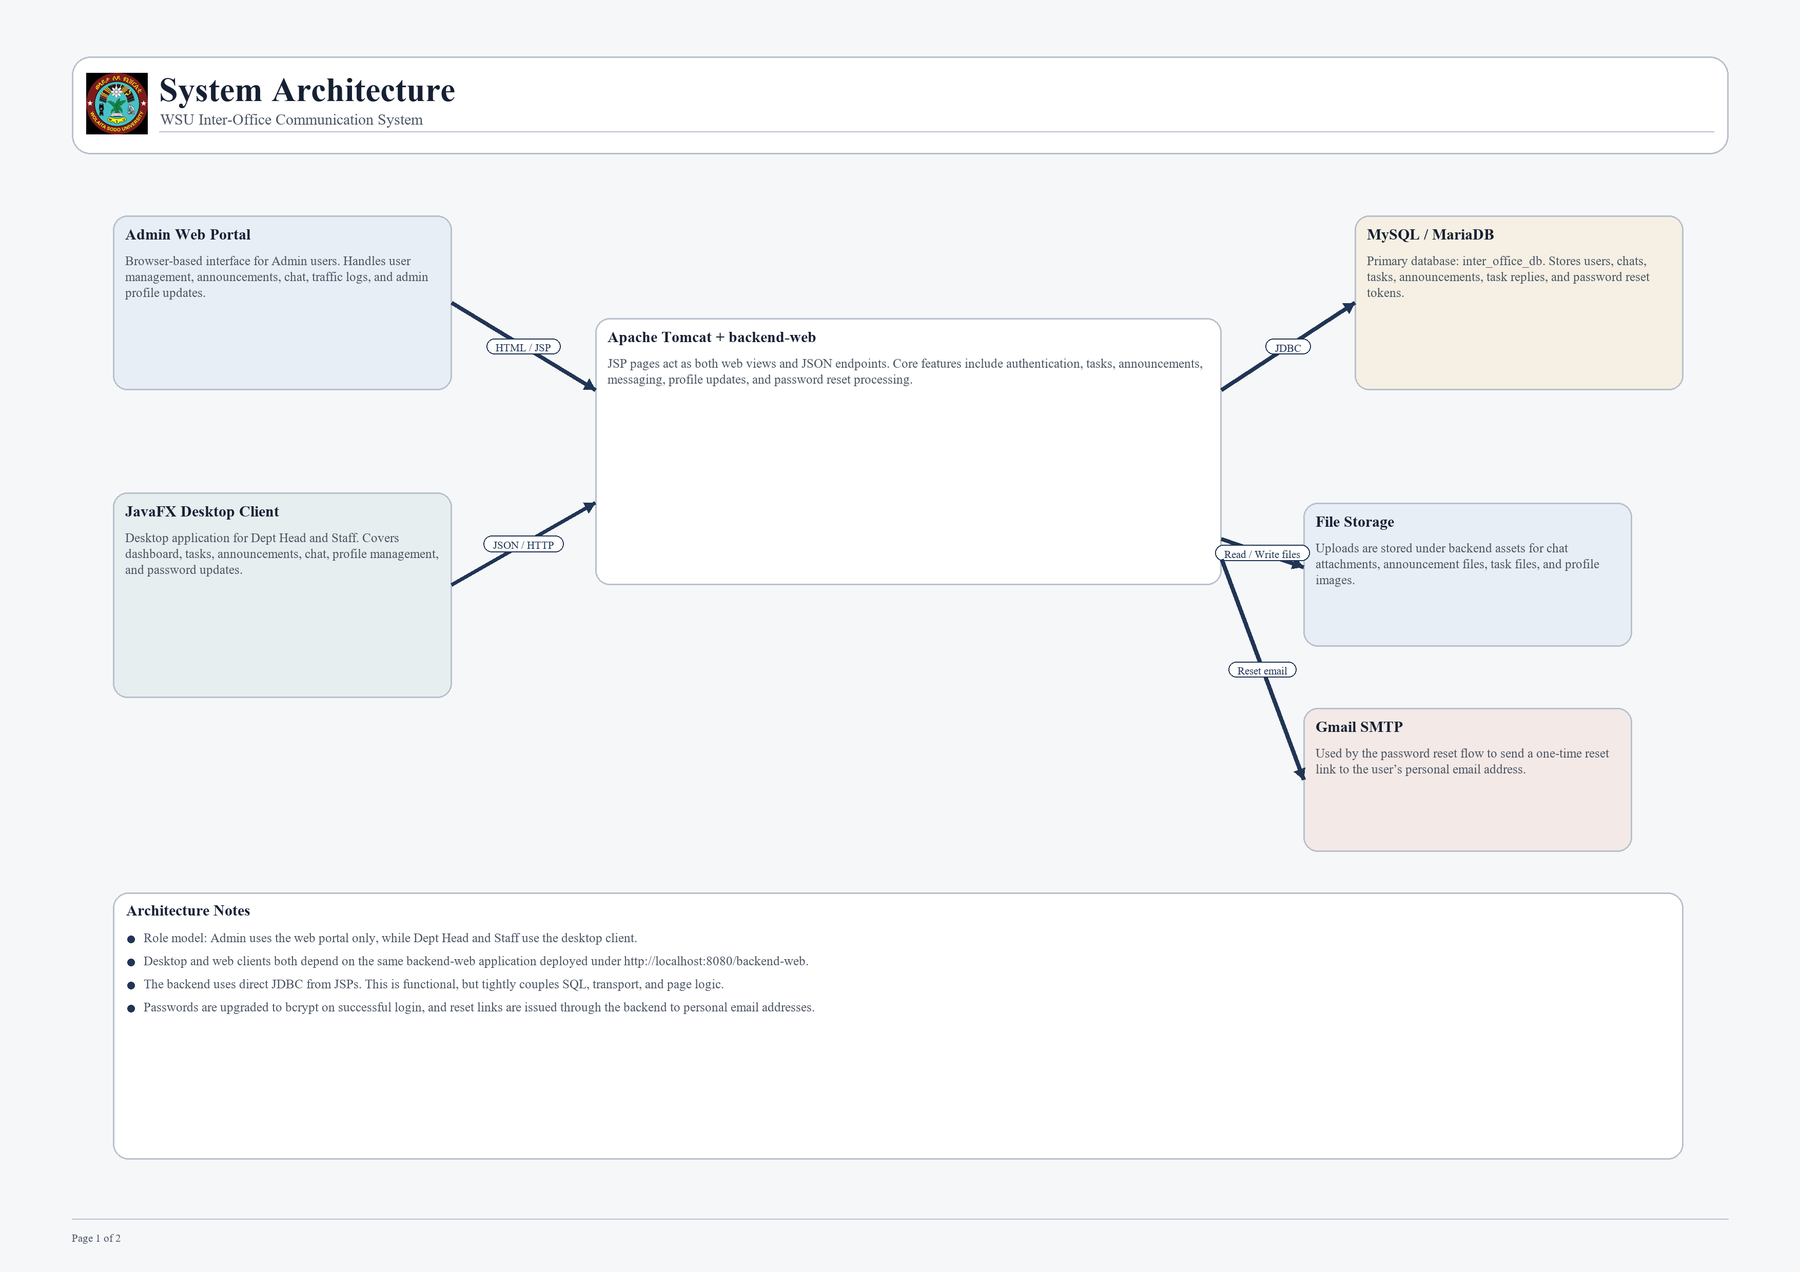
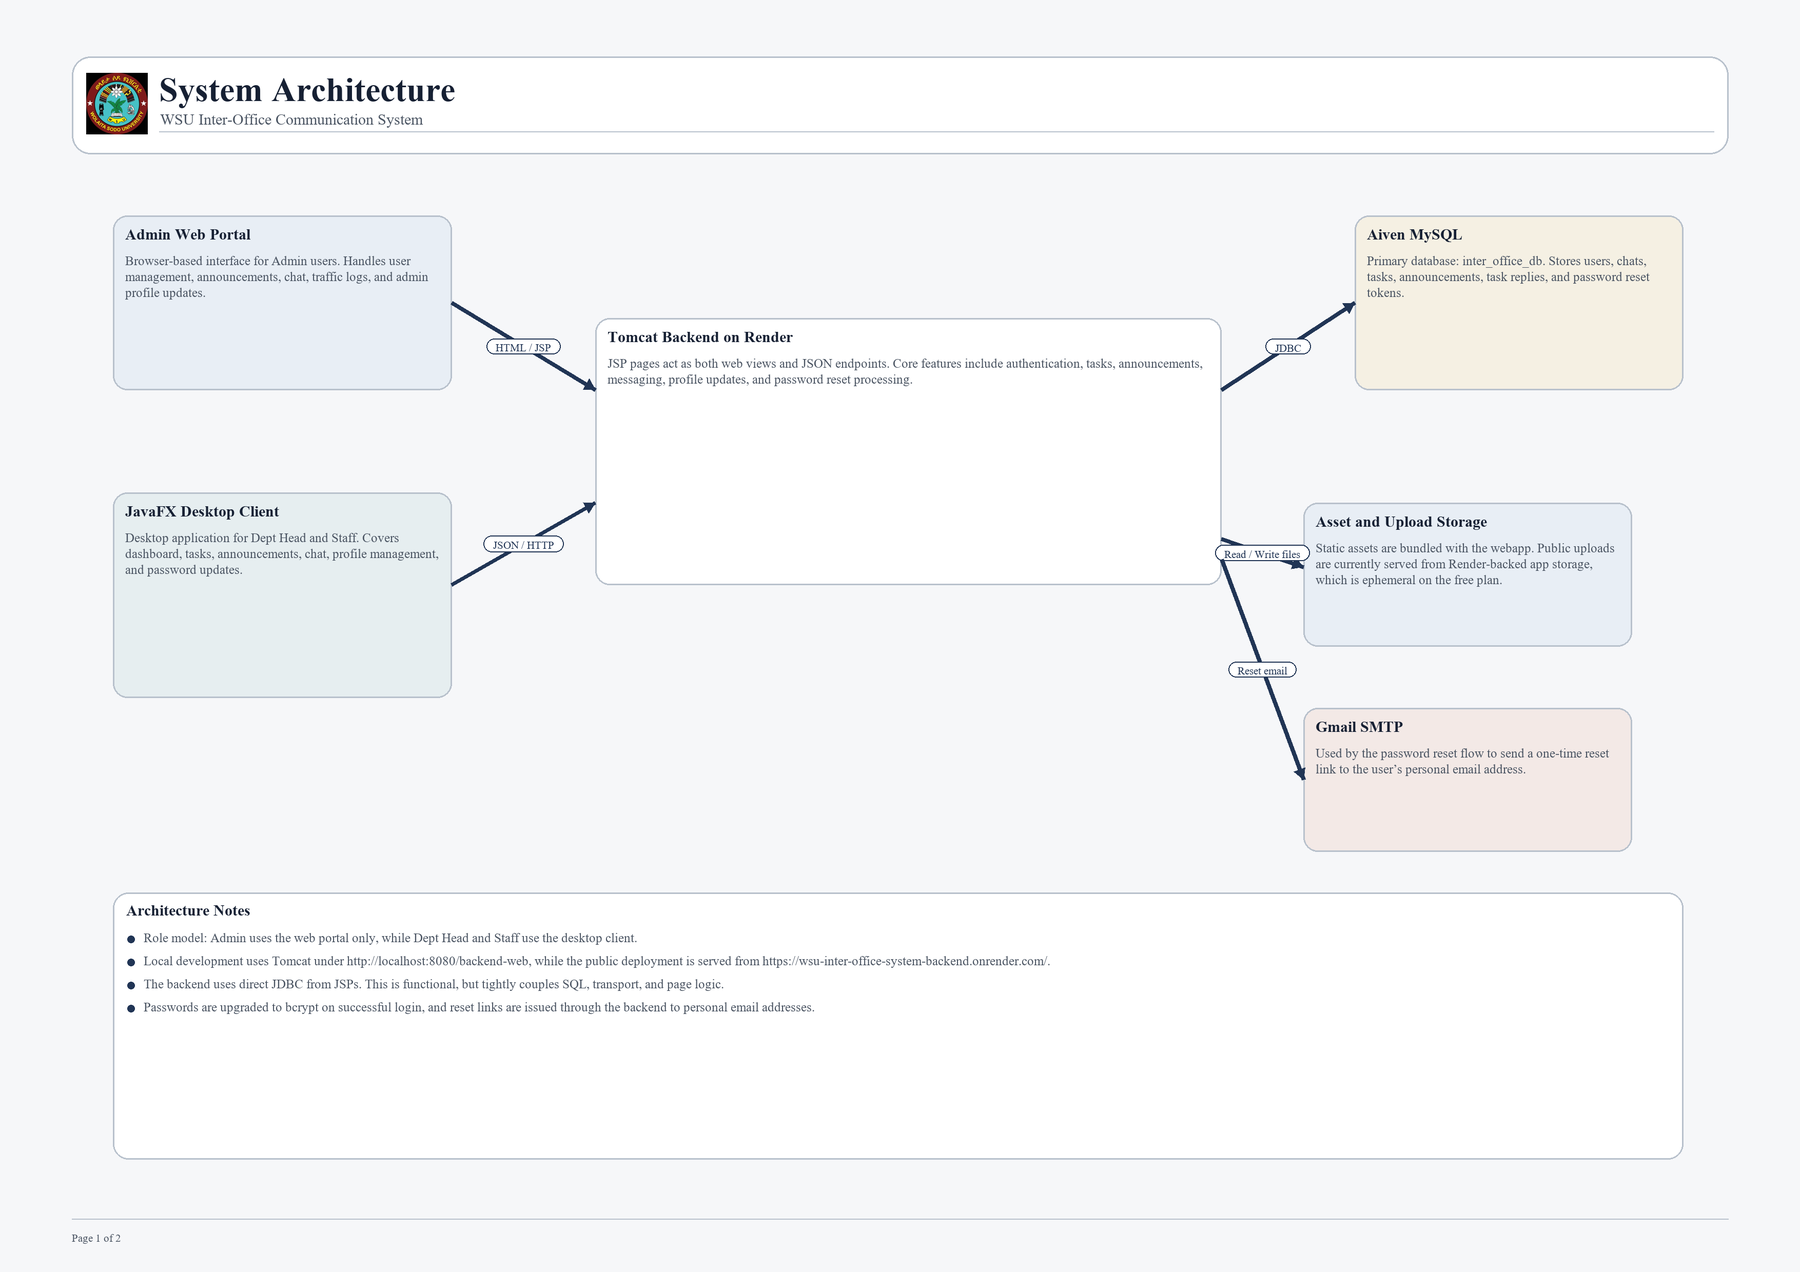
Refresh deployment documentation

diff --git a/docs/generate_diagram_pdfs.py b/docs/generate_diagram_pdfs.py
@@ -224,9 +224,9 @@ def generate_architecture_pdf() -> None:
 
     draw_box_with_text(draw, admin_box, "Admin Web Portal", "Browser-based interface for Admin users. Handles user management, announcements, chat, traffic logs, and admin profile updates.", COLORS["soft_blue"])
     draw_box_with_text(draw, desktop_box, "JavaFX Desktop Client", "Desktop application for Dept Head and Staff. Covers dashboard, tasks, announcements, chat, profile management, and password updates.", COLORS["soft_teal"])
-    draw_box_with_text(draw, backend_box, "Apache Tomcat + backend-web", "JSP pages act as both web views and JSON endpoints. Core features include authentication, tasks, announcements, messaging, profile updates, and password reset processing.", COLORS["panel"])
-    draw_box_with_text(draw, db_box, "MySQL / MariaDB", "Primary database: inter_office_db. Stores users, chats, tasks, announcements, task replies, and password reset tokens.", COLORS["soft_gold"])
-    draw_box_with_text(draw, files_box, "File Storage", "Uploads are stored under backend assets for chat attachments, announcement files, task files, and profile images.", COLORS["soft_blue"])
+    draw_box_with_text(draw, backend_box, "Tomcat Backend on Render", "JSP pages act as both web views and JSON endpoints. Core features include authentication, tasks, announcements, messaging, profile updates, and password reset processing.", COLORS["panel"])
+    draw_box_with_text(draw, db_box, "Aiven MySQL", "Primary database: inter_office_db. Stores users, chats, tasks, announcements, task replies, and password reset tokens.", COLORS["soft_gold"])
+    draw_box_with_text(draw, files_box, "Asset and Upload Storage", "Static assets are bundled with the webapp. Public uploads are currently served from Render-backed app storage, which is ephemeral on the free plan.", COLORS["soft_blue"])
     draw_box_with_text(draw, smtp_box, "Gmail SMTP", "Used by the password reset flow to send a one-time reset link to the user’s personal email address.", COLORS["soft_red"])
 
     draw_arrow(draw, (880, 590), (1160, 760), "HTML / JSP")
@@ -241,7 +241,7 @@ def generate_architecture_pdf() -> None:
         "Architecture Notes",
         [
             "Role model: Admin uses the web portal only, while Dept Head and Staff use the desktop client.",
-            "Desktop and web clients both depend on the same backend-web application deployed under http://localhost:8080/backend-web.",
+            "Local development uses Tomcat under http://localhost:8080/backend-web, while the public deployment is served from https://wsu-inter-office-system-backend.onrender.com/.",
             "The backend uses direct JDBC from JSPs. This is functional, but tightly couples SQL, transport, and page logic.",
             "Passwords are upgraded to bcrypt on successful login, and reset links are issued through the backend to personal email addresses.",
         ],
@@ -284,7 +284,7 @@ def generate_architecture_pdf() -> None:
         "JSON-style APIs under api/ including auth.jsp, tasks.jsp, announcements.jsp, get_messages.jsp, get_users.jsp",
         "Shared auth/profile helpers such as auth_check.jsp and account_helpers.jspf",
         "Upload storage under assets/uploads and assets/img",
-        "Runtime deployment under Tomcat webapps/backend-web",
+        "Runtime deployment on local Tomcat or public Render root context",
     ]
     y = 1025
     for item in backend_items:

diff --git a/docs/SYSTEM_DOCUMENTATION.md b/docs/SYSTEM_DOCUMENTATION.md
@@ -156,7 +156,7 @@ mvn clean package
 
 ## 7. Runtime Configuration
 
-### Backend Web Context
+### Local Backend Web Context
 
 The web app runs under this base URL:
 
@@ -171,6 +171,26 @@ http://localhost:8080/backend-web/index.jsp
 http://localhost:8080/backend-web/admin/login.jsp
 ```
 
+### Public Deployment Profile
+
+The current public deployment uses:
+
+- backend hosting: Render
+- database hosting: Aiven MySQL
+- public base URL: `https://wsu-inter-office-system-backend.onrender.com/`
+
+Public browser entry pages:
+
+```text
+https://wsu-inter-office-system-backend.onrender.com/
+https://wsu-inter-office-system-backend.onrender.com/admin/login.jsp
+```
+
+Current operational note:
+
+- the Render deployment is on the free plan
+- uploaded files are served correctly, but file storage is ephemeral and may be lost after redeploys or restarts
+
 ### Live Tomcat Path Used in This Project
 
 The repository source most often synced during development is:
@@ -179,9 +199,9 @@ The repository source most often synced during development is:
 C:\xampp\tomcat\webapps\backend-web
 ```
 
-### Database Connection
+### Local Database Connection
 
-Most backend JSP endpoints connect directly using hard-coded values:
+Local Tomcat/XAMPP development commonly uses:
 
 ```text
 jdbc:mysql://localhost:3306/inter_office_db
@@ -189,7 +209,13 @@ user: root
 password: (empty)
 ```
 
-This appears repeatedly across the JSP API files.
+### Public Database Connection
+
+The current public deployment uses an Aiven MySQL instance.
+
+Application-level DB credentials are injected into the Render container through environment variables and written at startup into:
+
+- `backend-web/src/main/webapp/WEB-INF/db.properties`
 
 ### Multipart Handling
 
@@ -776,11 +802,22 @@ Important limitations:
 
 ### Desktop/Backend Coupling
 
-The desktop client source is currently hard-coded to call:
+The desktop client now supports a configurable backend base URL.
+
+Local development commonly uses:
 
 - `http://localhost:8080/backend-web`
 
-If the backend host, port, or context path changes, the desktop source must be updated to match.
+Public deployment currently uses:
+
+- `https://wsu-inter-office-system-backend.onrender.com/`
+
+This is configured through:
+
+- `frontend-desktop/src/main/resources/com/frontenddesktop/config/app.properties`
+- `frontend-desktop/src/main/resources/com/frontenddesktop/config/app.properties.render.example`
+- JVM override: `-Diocs.backend.base_url=...`
+- environment override: `IOCS_BACKEND_BASE_URL`
 
 ### Password Storage
 
@@ -845,6 +882,7 @@ C:\xampp\tomcat\webapps\backend-web
 - add schema migration tooling
 - add seed scripts for demo and test data
 - add backup/restore guidance
+- move public uploads to persistent object storage or a paid persistent disk
 
 ## 21. Setup Guide
 
@@ -882,6 +920,25 @@ http://localhost:8080/backend-web
 ```
 
 4. If the desktop client is being used, keep its API base URL aligned with that same backend context
+
+### Public Render Setup
+
+Current public deployment path:
+
+1. Push source to GitHub
+2. Render deploys the backend from `render.yaml`
+3. Aiven MySQL provides the live database
+4. Public entry points are:
+
+```text
+https://wsu-inter-office-system-backend.onrender.com/
+https://wsu-inter-office-system-backend.onrender.com/admin/login.jsp
+```
+
+Current note:
+
+- the free Render plan is suitable for demonstration and light usage
+- upload persistence is not guaranteed on the current free-tier setup
 
 ### Desktop Setup
 

diff --git a/README.md b/README.md
@@ -34,16 +34,27 @@ This project supports day-to-day communication and coordination across universit
 - `MySQL / MariaDB`: relational data store
 - `SMTP`: email delivery for password reset links
 
-Main runtime base URL:
+Main local runtime base URL:
 
 ```text
 http://localhost:8080/backend-web
 ```
 
-Primary web entry points:
+Primary local web entry points:
 
 - `http://localhost:8080/backend-web/index.jsp`
 - `http://localhost:8080/backend-web/admin/login.jsp`
+
+## Public Deployment
+
+- `backend`: Render web service at `https://wsu-inter-office-system-backend.onrender.com/`
+- `database`: Aiven MySQL
+- `desktop app`: packaged Windows `.exe` configured to use the Render backend URL
+
+Primary public web entry points:
+
+- `https://wsu-inter-office-system-backend.onrender.com/`
+- `https://wsu-inter-office-system-backend.onrender.com/admin/login.jsp`
 
 ## Documentation Previews
 
@@ -88,6 +99,13 @@ README.md
 2. Open `frontend-desktop` in your IDE.
 3. Confirm the backend is reachable at `http://localhost:8080/backend-web`.
 4. Run the JavaFX client from `frontend-desktop/src/main/java/com/frontenddesktop/MainApp.java`.
+
+## Public Deployment Notes
+
+- The current public backend is deployed on Render free.
+- The current public database is hosted on Aiven MySQL.
+- The packaged desktop app can be pointed at the Render backend URL.
+- On Render free, uploaded files are stored on ephemeral storage and may be lost after redeploys or restarts.
 
 ## Documentation
 

diff --git a/docs/RELEASE_NOTES_v1.0.0.md b/docs/RELEASE_NOTES_v1.0.0.md
@@ -30,7 +30,11 @@ This release packages the current working state of the system across:
 
 ## Notes
 
-- The backend is expected to run at `http://localhost:8080/backend-web`.
+- Local backend runtime remains `http://localhost:8080/backend-web`.
+- Public deployment is currently available at `https://wsu-inter-office-system-backend.onrender.com/`.
+- The public admin login page is `https://wsu-inter-office-system-backend.onrender.com/admin/login.jsp`.
+- The public database is hosted on Aiven MySQL.
+- Render is currently used on the free plan, so uploaded files are not persistent across redeploys or restarts.
 - SMTP settings must be configured locally in `backend-web/src/main/webapp/WEB-INF/mail.properties`.
 - Packaged desktop outputs may vary by local JavaFX and Windows packaging setup.
 